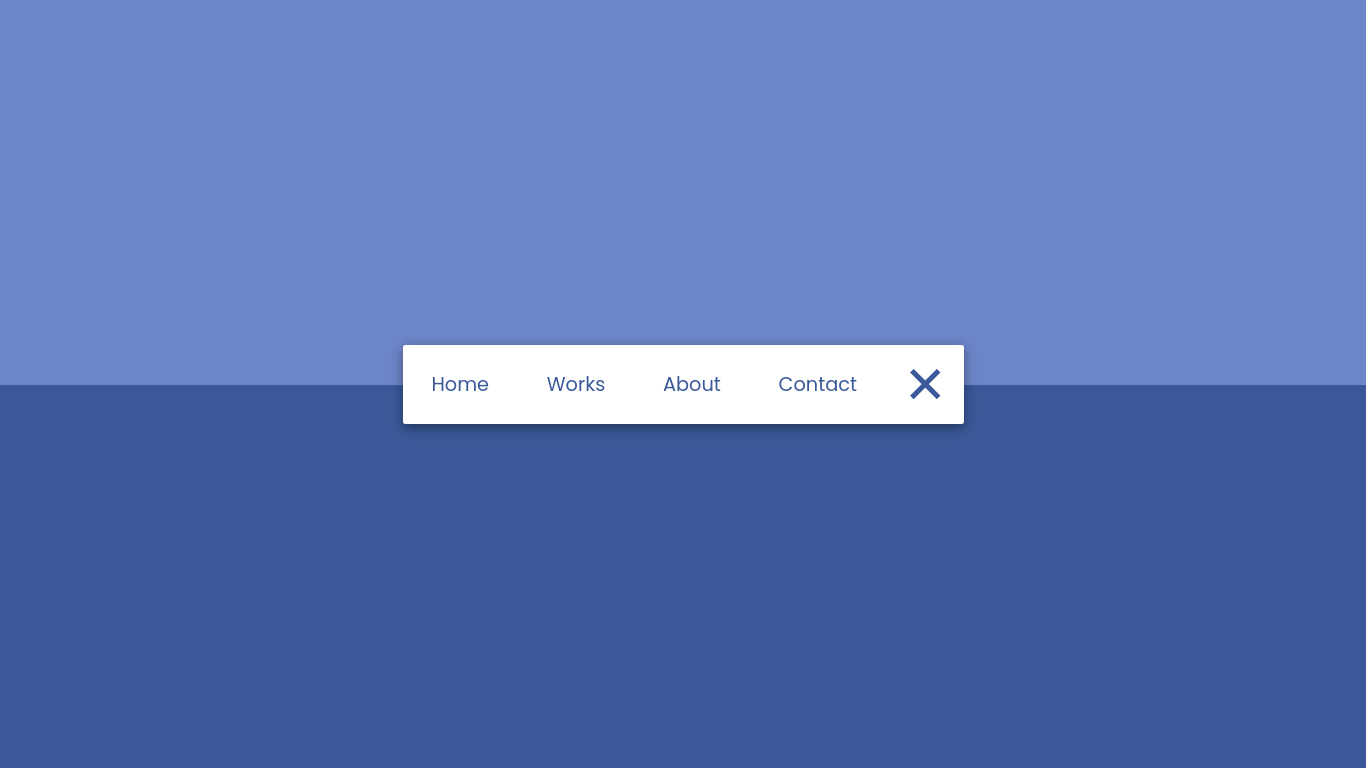
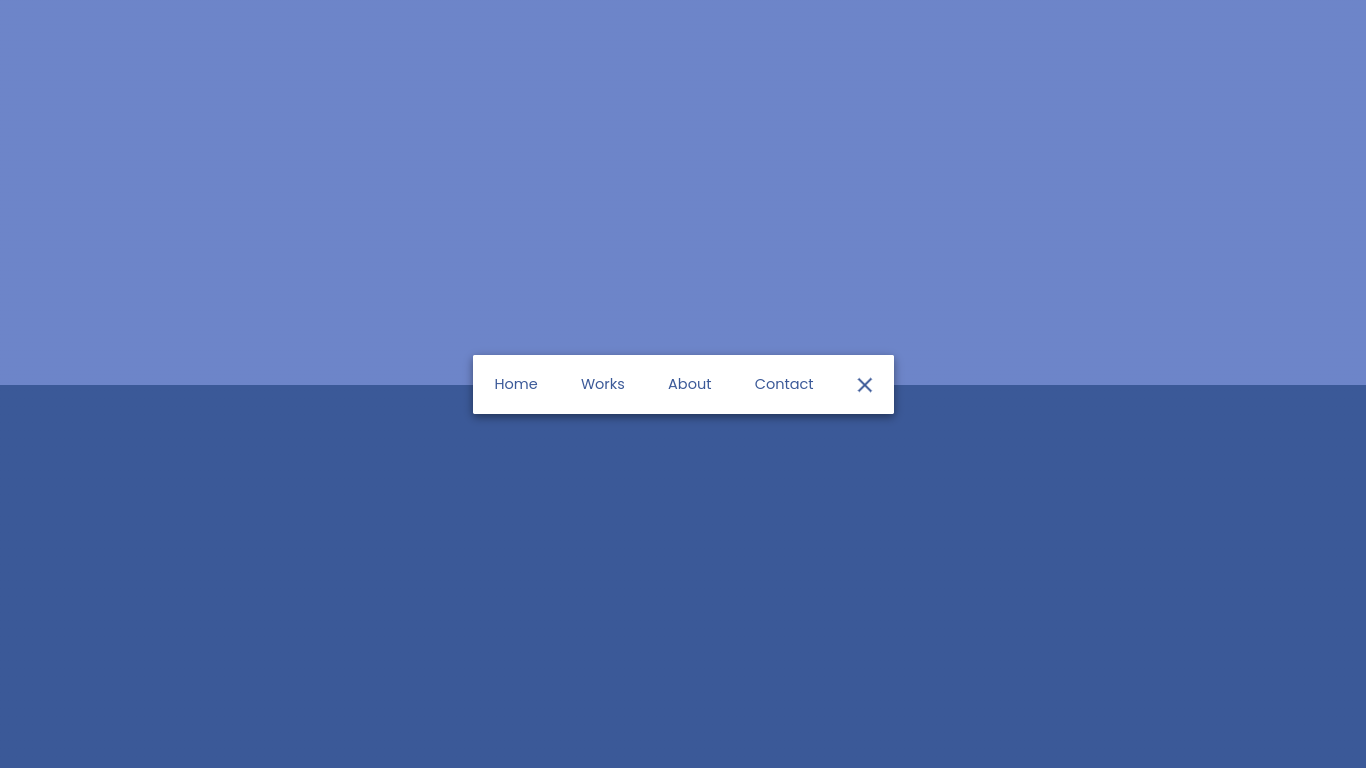
Day-14

Changed region(s): [[0.2767, 0.4375, 0.7072, 0.5625]]

diff --git a/day-14/css/styles.css b/day-14/css/styles.css
@@ -79,6 +79,7 @@ body{
     background-color: var(--bg-100);
     position: absolute;
     transition: .5s;
+    border-radius: 3px;
 }
 /* click click */
 .menu::before{
@@ -88,20 +89,31 @@ body{
     transform: translateY(4px);
 }
 .menu-active::after{
-    animation: rotateSpanDown .1s forwards  linear alternate;
-    animation-iteration-count: 3;
+    animation: rotateSpanUp .1s forwards  linear ;
+    animation-iteration-count: 2;
 }
 .menu-active::before{
-    animation: rotateSpanUp .1s forwards  linear alternate;
-    animation-iteration-count: 3;
+    animation: rotateSpanDown .1s forwards  linear ;
+    animation-iteration-count :2;
 }
 
 @keyframes rotateSpanUp {
-    to{
-        transform: rotate(0deg);
-
-    }
     from{
         transform: rotate(180deg);
+
     }
+    to{
+        transform: rotate(45deg);
+    }
+    
+}
+@keyframes rotateSpanDown {
+    from{
+        transform: rotate(-180deg);
+
+    }
+    to{
+        transform: rotate(-45deg);
+    }
+    
 }
